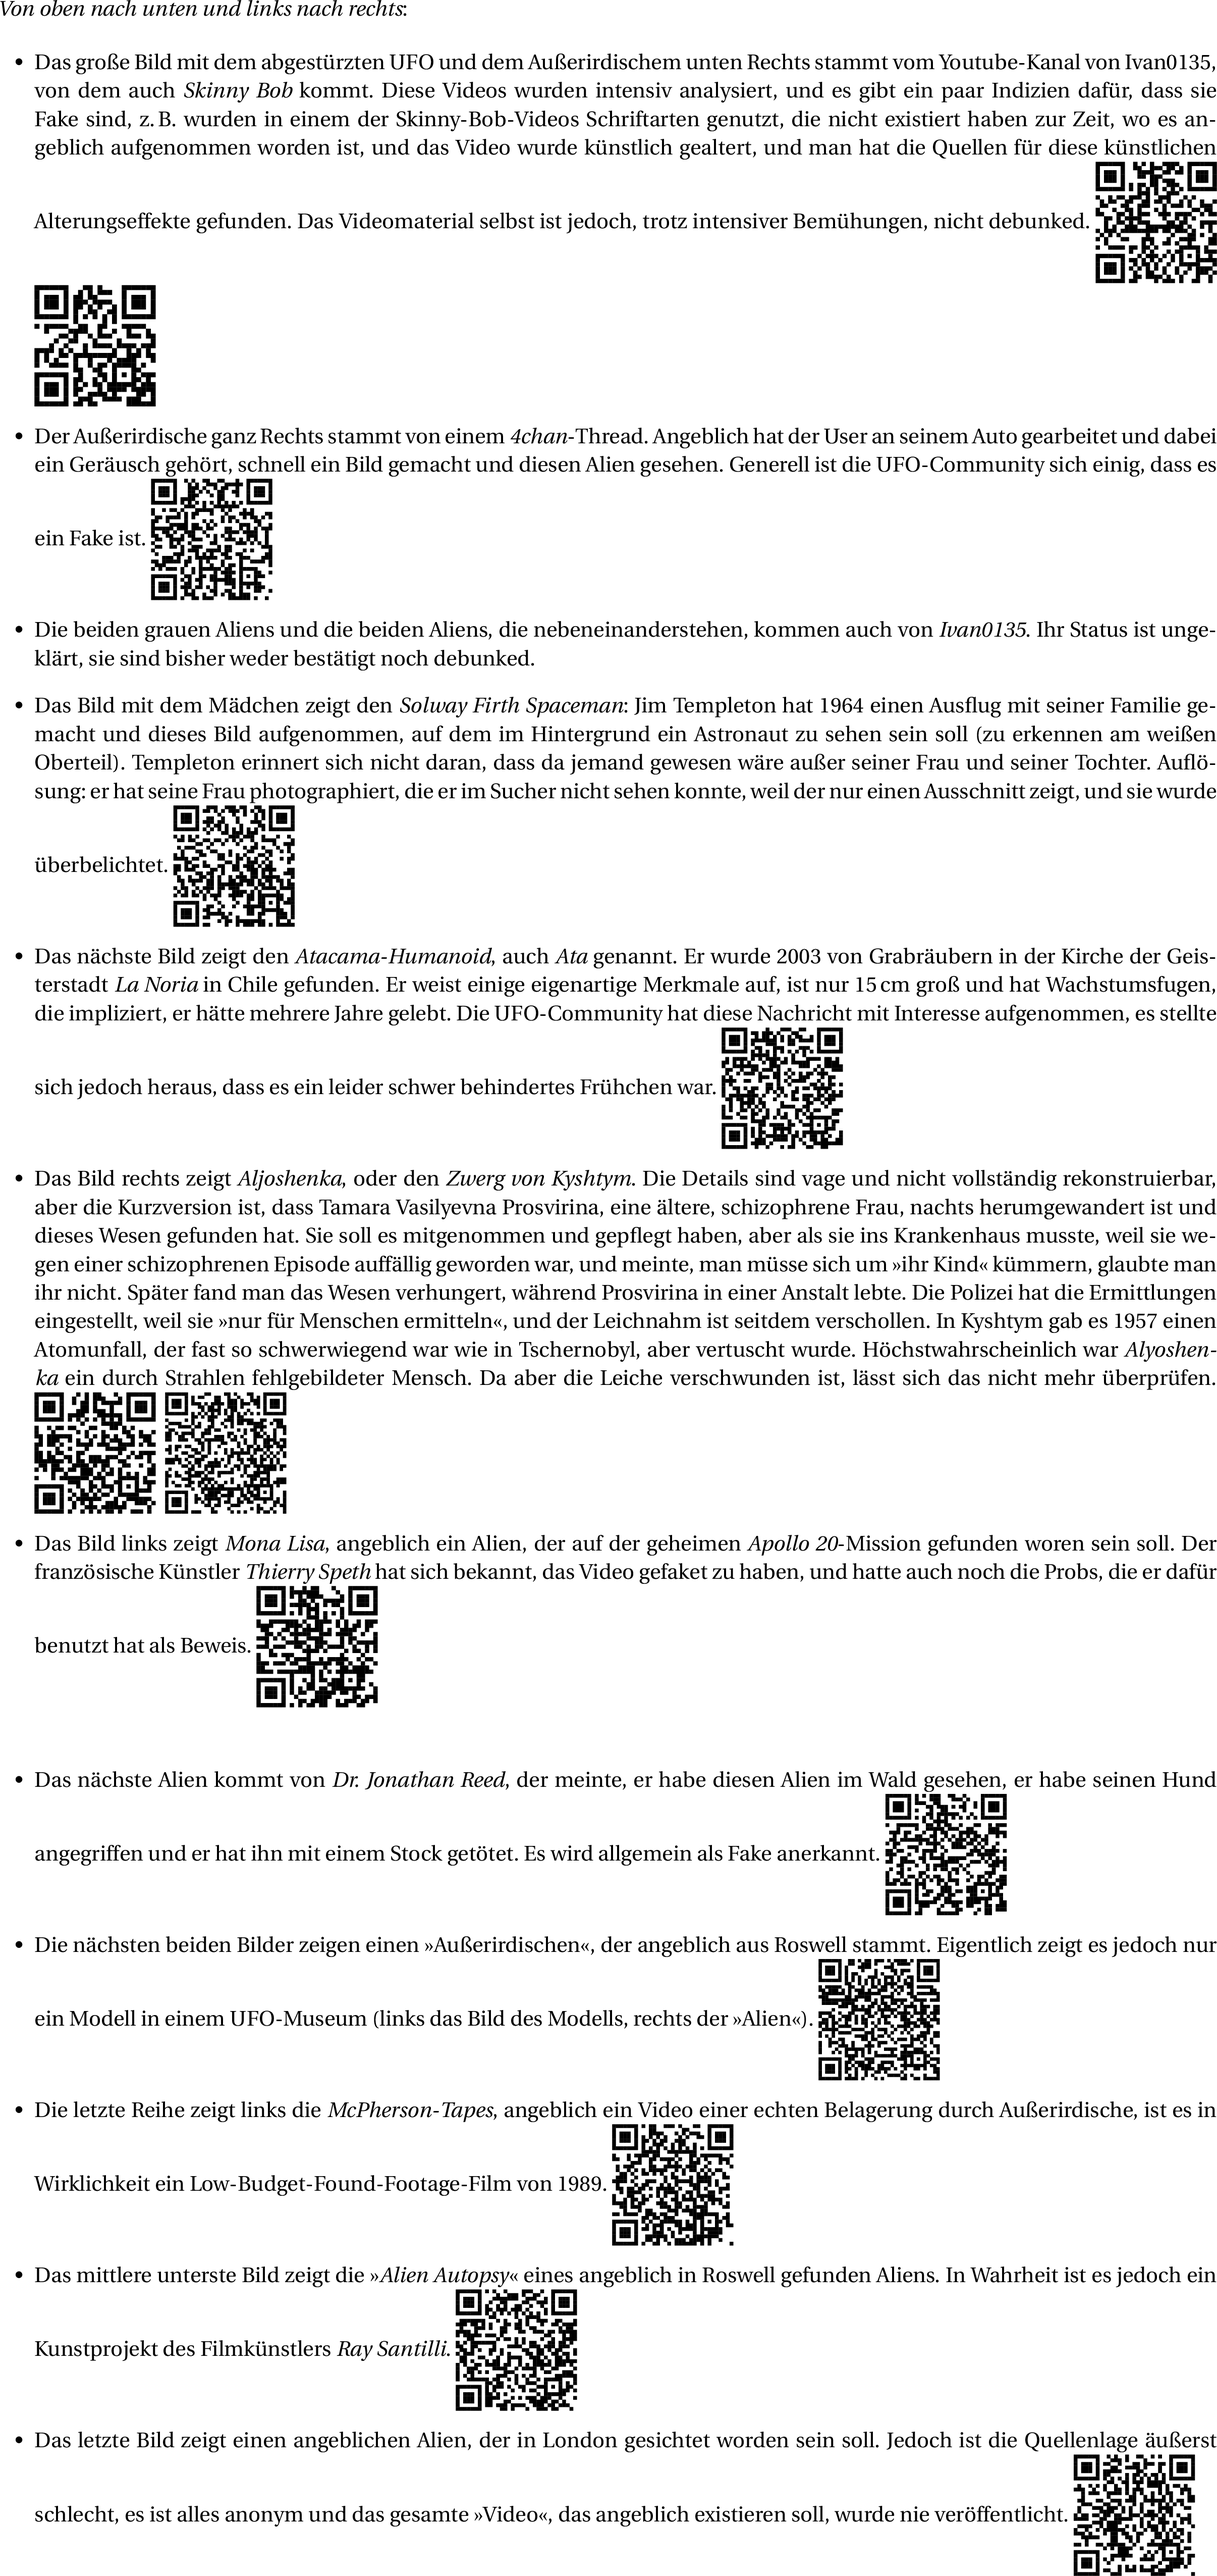
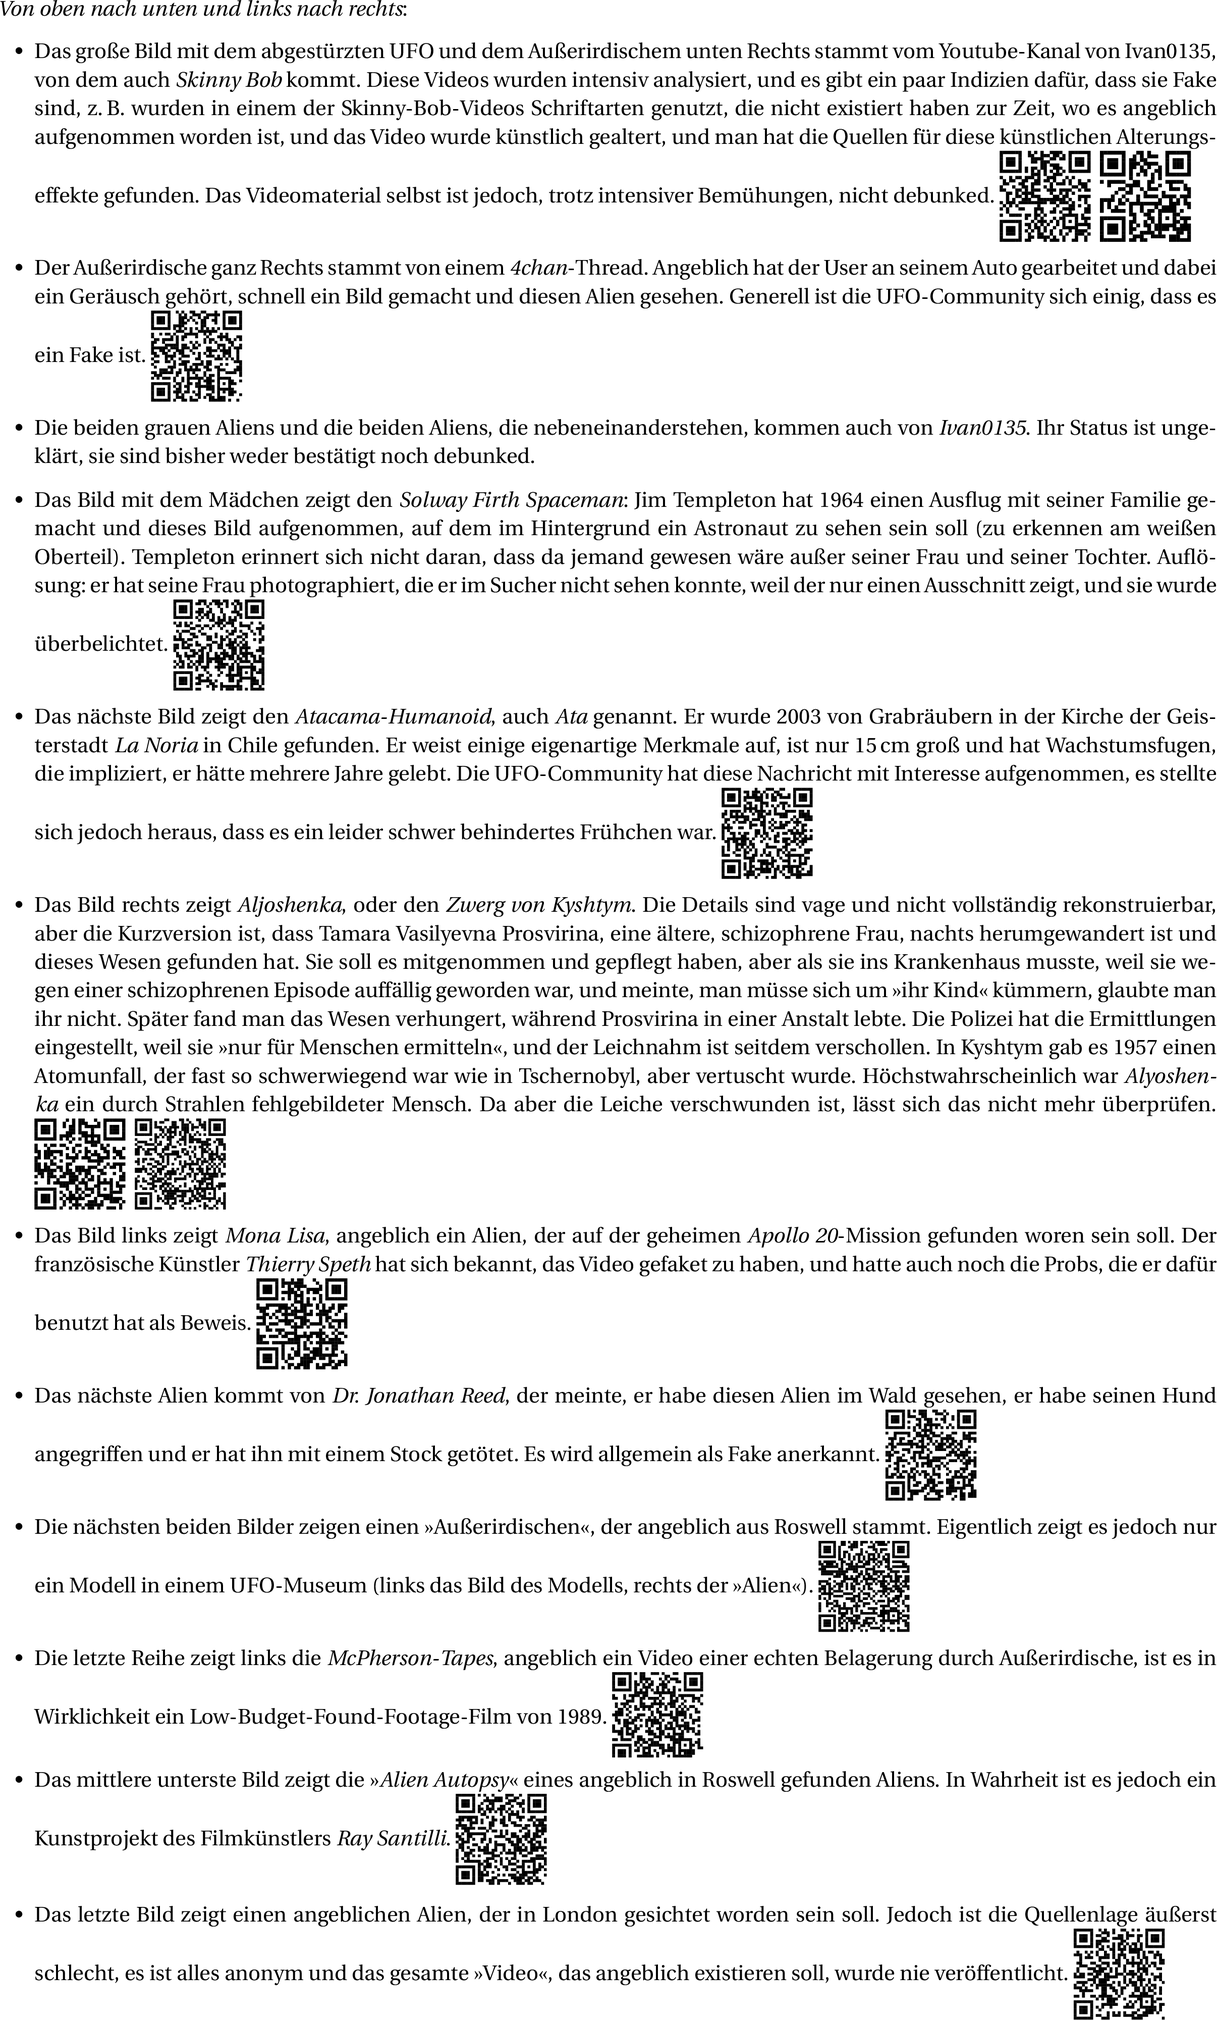
fix

diff --git a/poster/04/04.tex b/poster/04/04.tex
@@ -27,6 +27,7 @@
 	\item Illobrand von Ludwiger: ein deutscher Physiker, der sich auf das UFO-Thema versteift hat und alles im Licht von Burkhard Heims betrachtet hat.
 		\qr[Wikipedia-Eintrag zu Illobrand von Ludwiger]{https://de.wikipedia.org/wiki/Illobrand_von_Ludwiger}
 	\item Billy Meier: ein schweizer Sektenführer, der behauptet, mit Plejadiern in Kontakt zu stehen.
+
 		\qr[Wikipedia-Eintrag zu Billy Meier]{https://de.wikipedia.org/wiki/Eduard_Albert_Meier}
 	\item Marshall Applewhite: Ein Sektenführer, der meinte, hinter dem Komet Hale Bopp sei ein UFO gewesen, das die Mitglieder der Sekte vor dem Weltuntergang retten sollte, indem sie \frq ihren Körper verlassen\flq. 39 Mitglieder der Sekte haben sich daraufhin selbst getötet.
 		\qr[Wikipedia-Eintrag zu Heavens Gate]{https://de.wikipedia.org/wiki/Heaven\%E2\%80\%99s_Gate_(Neue_Religi\%C3\%B6se_Bewegung)}
@@ -42,6 +43,7 @@
 	\item Allen Hynek: ein amerikanischer Astronom, der bekannt wurde als einer der Vorreiter der UFO-Forschung. Von ihm kommt z.\,B. die Klassifikation von UFO-Sichtungen, z.\,B. Nocturnal Light, Daylight Disc, Radar/Visual, Close Encounter of the first, second and third Kind.
 		\qr[Wikipedia-Eintrag zum UFO-Forscher Hynek]{https://en.wikipedia.org/wiki/J._Allen_Hynek}
 	\item Luis Elizondo: ein Whistleblower, der in einem Geheimprojekt des Pentagons für die Untersuchung von UFOs verantwortlich war. Er behauptete, die USA seien in Besitz von UFOs. Beweise konnte er keine vorlegen.
+
 		\qr[Wikipedia-Eintrag zu Luis Elizondo]{https://en.wikipedia.org/wiki/Luis_Elizondo}
 	\item Hans-Werner Peiniger: Gründer der GEP, der Gesellschaft für die Erforschung des UFO-Phänomens. Die GEP bearbeitet seit über 50 Jahren UFO-Fälle, die aus der gesamten Gesellschaft gemeldet werden und liefert seriöse Antworten auf die Frage, was Menschen möglicherweise gesehen haben könnten.
 

diff --git a/poster/header.tex b/poster/header.tex
@@ -38,7 +38,7 @@
 
 \newcommand{\qr}[2][]{%
     \noindent % Verhindert Einrückung der Zeile
-    \mbox{\qrcode[height=0.8in]{#2}\ifthenelse{\equal{#1}{}}{}{\textit{(#1)\quad}}} % Optionalen Text kursiv unter dem QR-Code
+    \mbox{\qrcode[height=0.6in]{#2}\ifthenelse{\equal{#1}{}}{}{\textit{(#1)\quad}}} % Optionalen Text kursiv unter dem QR-Code
 }
 
 \usepackage{geometry}
